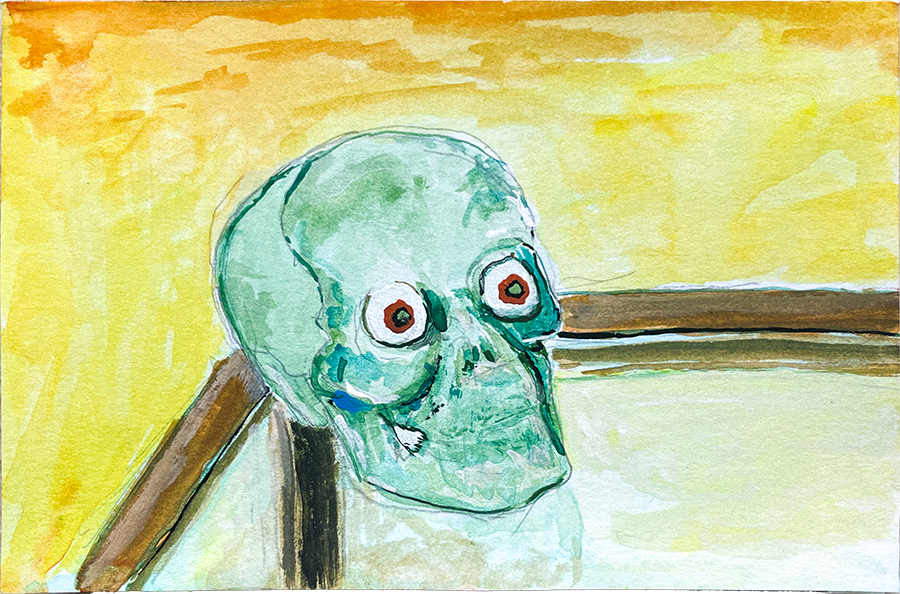
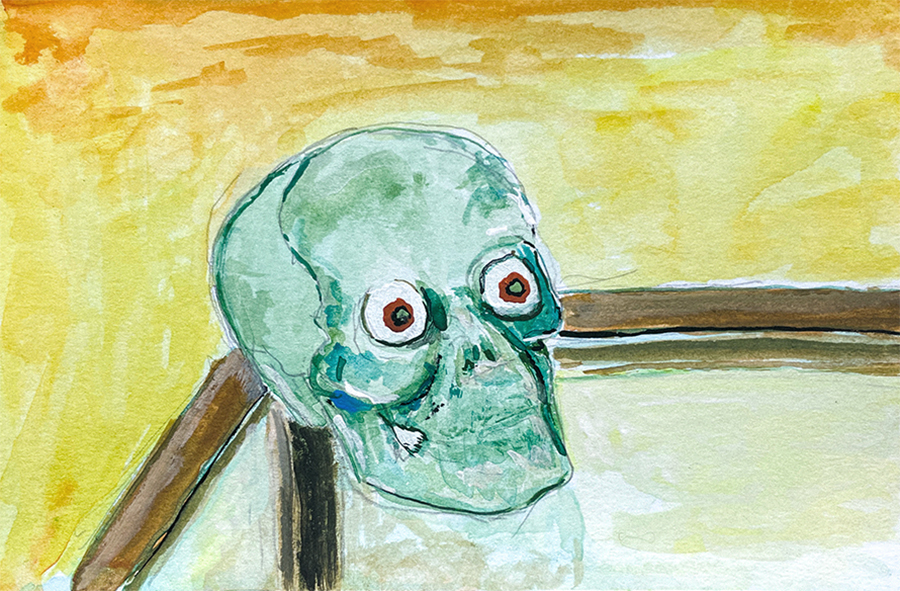
Fix

diff --git a/Paintings.html b/Paintings.html
@@ -19,12 +19,12 @@
         <div class="slide one"> 
 
           <div class="tooltip">
-            <img src="IMAGES/All/230509_Skull.jpg" width="900" height="594">
+            <img src="IMAGES/All/230509_Skull.jpg" width="900" height="591">
             <span class="tooltiptext">Skull,<br>Gouache,<br> 05/09/2023</span>
            </div> 
            
           <div class="tooltip">
-            <img src="IMAGES/All/230508_Chair.jpg" width="623" height="900">
+            <img src="IMAGES/All/230508_Chair.jpg" width="620" height="900">
             <span class="tooltiptext">Chair,<br>Gouache,<br> 05/08/2023</span>
            </div> 
                   

diff --git a/All.html b/All.html
@@ -19,12 +19,12 @@
         <div class="slide one">
 
           <div class="tooltip">
-            <img src="IMAGES/All/230509_Skull.jpg" width="900" height="594">
+            <img src="IMAGES/All/230509_Skull.jpg" width="900" height="591">
             <span class="tooltiptext">Skull,<br>Gouache,<br> 05/09/2023</span>
            </div> 
            
           <div class="tooltip">
-            <img src="IMAGES/All/230508_Chair.jpg" width="623" height="900">
+            <img src="IMAGES/All/230508_Chair.jpg" width="620" height="900">
             <span class="tooltiptext">Chair,<br>Gouache,<br> 05/08/2023</span>
            </div> 
                  
